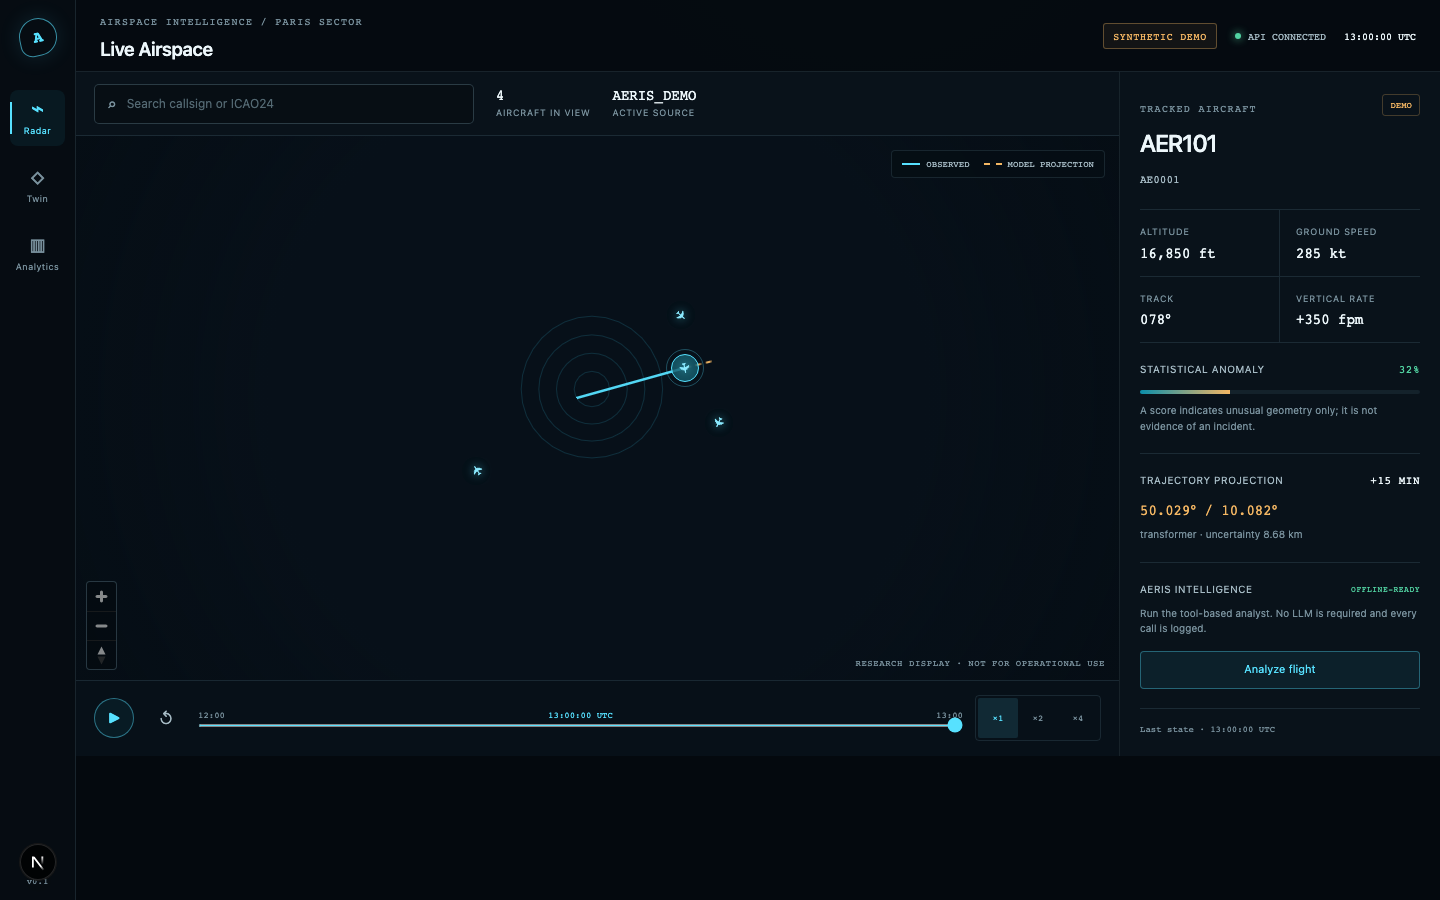
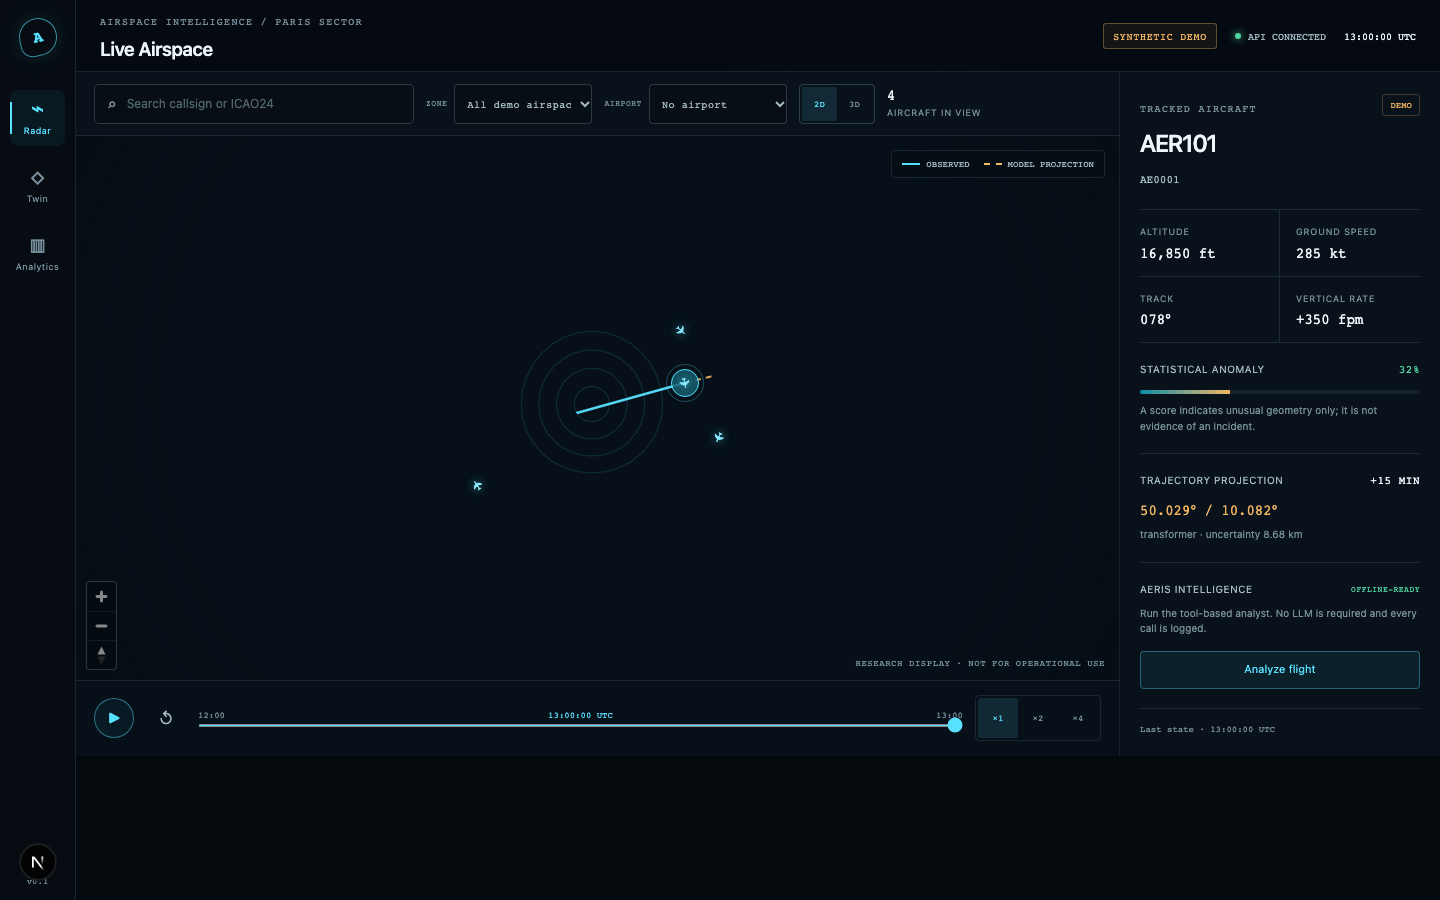
feat: add radar navigation and quality gates

Changed region(s): [[0.2812, 0.0933, 0.5, 0.1556], [0.375, 0.3733, 0.5, 0.4667], [0.5312, 0.0933, 0.5938, 0.1556]]

diff --git a/frontend/app/globals.css b/frontend/app/globals.css
@@ -120,12 +120,17 @@ button:focus-visible, input:focus-visible, select:focus-visible, a:focus-visible
 
 .main-grid { display: grid; min-height: 0; grid-template-columns: minmax(0, 1fr) 320px; }
 .radar-panel { display: grid; min-width: 0; min-height: 0; grid-template-rows: 64px minmax(0, 1fr) 76px; border-right: 1px solid var(--line); }
-.map-toolbar { display: flex; align-items: center; gap: 22px; padding: 10px 18px; border-bottom: 1px solid var(--line); background: var(--surface); }
-.search-box { display: flex; width: min(380px, 45%); align-items: center; gap: 10px; padding: 0 12px; border: 1px solid var(--line-strong); border-radius: 5px; background: #070e14; color: var(--muted); }
+.map-toolbar { display: flex; align-items: center; gap: 12px; overflow-x: auto; padding: 10px 18px; border-bottom: 1px solid var(--line); background: var(--surface); scrollbar-width: thin; }
+.search-box { display: flex; flex: 1 0 220px; max-width: 320px; align-items: center; gap: 10px; padding: 0 12px; border: 1px solid var(--line-strong); border-radius: 5px; background: #070e14; color: var(--muted); }
 .search-box:focus-within { border-color: rgba(87, 225, 255, 0.55); }
 .search-box input { width: 100%; height: 38px; border: 0; outline: 0; background: transparent; color: var(--ink); font-size: 12px; }
 .search-box input::placeholder { color: #536872; }
 .search-box button { border: 0; background: transparent; color: var(--muted); cursor: pointer; }
+.toolbar-select { display: flex; flex: 0 0 auto; align-items: center; gap: 7px; color: var(--muted); font: 8px var(--font-mono), monospace; letter-spacing: 0.07em; text-transform: uppercase; }
+.toolbar-select select { width: 138px; height: 40px; padding: 0 8px; border: 1px solid var(--line-strong); border-radius: 4px; background: #070e14; color: var(--muted-bright); font-size: 10px; }
+.view-toggle { display: flex; flex: 0 0 auto; padding: 2px; border: 1px solid var(--line-strong); border-radius: 4px; }
+.view-toggle button { min-width: 35px; height: 34px; border: 0; border-radius: 2px; background: transparent; color: var(--muted); font: 9px var(--font-mono), monospace; cursor: pointer; }
+.view-toggle button.active { background: rgba(87, 225, 255, 0.12); color: var(--cyan); }
 .traffic-metric { display: flex; flex-direction: column; gap: 3px; min-width: 92px; }
 .traffic-metric strong { color: var(--ink); font: 14px var(--font-mono), monospace; text-transform: uppercase; }
 .traffic-metric span { color: var(--muted); font-size: 9px; letter-spacing: 0.08em; text-transform: uppercase; }
@@ -140,6 +145,9 @@ button:focus-visible, input:focus-visible, select:focus-visible, a:focus-visible
 .aircraft-marker span { display: block; font-size: 18px; line-height: 1; text-shadow: 0 0 10px rgba(87, 225, 255, 0.65); }
 .aircraft-marker:hover, .aircraft-marker.selected { z-index: 3; border-color: var(--cyan); background: rgba(22, 91, 107, 0.82); transform: scale(1.16); }
 .aircraft-marker.selected::after { content: ""; position: absolute; width: 38px; height: 38px; border: 1px solid rgba(87, 225, 255, 0.3); border-radius: 50%; }
+.airport-marker { display: grid; justify-items: center; color: var(--amber); filter: drop-shadow(0 3px 6px #000); }
+.airport-marker strong { padding: 3px 5px; border: 1px solid rgba(243, 182, 99, 0.45); border-radius: 3px; background: rgba(7, 16, 25, 0.92); font: 8px var(--font-mono), monospace; }
+.airport-marker i { width: 8px; height: 8px; margin-top: 3px; border: 2px solid var(--amber); border-radius: 50%; background: #071019; }
 .map-legend { position: absolute; top: 14px; right: 14px; display: flex; gap: 14px; padding: 8px 10px; border: 1px solid var(--line); border-radius: 4px; background: rgba(5, 13, 19, 0.82); color: var(--muted-bright); font: 9px var(--font-mono), monospace; text-transform: uppercase; }
 .map-legend, .non-operational { pointer-events: none; }
 .map-legend span { display: flex; align-items: center; gap: 6px; }
@@ -148,6 +156,7 @@ button:focus-visible, input:focus-visible, select:focus-visible, a:focus-visible
 .predicted-line { border-top: 2px dashed var(--amber); }
 .scenario-line { border-top: 2px dashed var(--red); }
 .scenario-prediction-line { border-top: 2px dotted #c58cff; }
+.airport-reference { position: absolute; top: 14px; left: 14px; padding: 7px 9px; border: 1px solid rgba(243, 182, 99, 0.28); border-radius: 4px; background: rgba(5, 13, 19, 0.82); color: var(--amber); font: 8px var(--font-mono), monospace; letter-spacing: 0.06em; text-transform: uppercase; }
 .non-operational { position: absolute; right: 14px; bottom: 12px; color: #78909c; font: 9px var(--font-mono), monospace; letter-spacing: 0.06em; text-transform: uppercase; }
 .loading-state, .empty-state, .map-fallback { position: absolute; left: 50%; top: 50%; z-index: 4; transform: translate(-50%, -50%); border: 1px solid var(--line-strong); border-radius: 5px; background: rgba(5, 14, 20, 0.92); box-shadow: 0 20px 60px rgba(0, 0, 0, 0.35); }
 .loading-state { display: flex; align-items: center; gap: 10px; padding: 10px 14px; color: var(--muted-bright); font-size: 11px; }
@@ -280,7 +289,9 @@ input[type="range"] { width: 100%; height: 3px; accent-color: var(--cyan); curso
   .topbar-status { gap: 8px; }
   .connection-status, .topbar-status time { display: none; }
   .map-toolbar { gap: 10px; padding: 10px; }
-  .search-box { width: 100%; }
+  .search-box { flex-basis: 210px; }
+  .toolbar-select span { display: none; }
+  .toolbar-select select { width: 126px; }
   .traffic-metric { display: none; }
   .radar-panel { height: 610px; grid-template-rows: 60px minmax(0, 1fr) 92px; }
   .timeline-panel { flex-wrap: wrap; gap: 7px; padding: 8px 10px; }

diff --git a/frontend/app/page.tsx b/frontend/app/page.tsx
@@ -14,6 +14,7 @@ import {
   type IntelligenceReport,
 } from "@/lib/api";
 import { formatUtc } from "@/lib/format";
+import { AIRPORTS, AIRSPACE_ZONES, type AirspaceZone } from "@/lib/reference";
 import type {
   AnomalyResponse,
   FlightListResponse,
@@ -38,6 +39,9 @@ export default function RadarPage() {
   const [reportState, setReportState] = useState<{ key: string; data: IntelligenceReport } | null>(null);
   const [reportBusyKey, setReportBusyKey] = useState<string | null>(null);
   const [search, setSearch] = useState("");
+  const [zone, setZone] = useState<AirspaceZone>("all");
+  const [airportIcao, setAirportIcao] = useState("");
+  const [viewMode, setViewMode] = useState<"2d" | "3d">("2d");
   const [minute, setMinute] = useState(60);
   const [playing, setPlaying] = useState(false);
   const [speed, setSpeed] = useState(1);
@@ -101,11 +105,27 @@ export default function RadarPage() {
 
   const flights = useMemo(() => {
     const query = search.trim().toLowerCase();
-    if (!query) return response?.data ?? [];
-    return (response?.data ?? []).filter((flight) =>
-      flight.icao24.includes(query) || flight.callsign?.toLowerCase().includes(query)
-    );
-  }, [response, search]);
+    const bounds = AIRSPACE_ZONES[zone].bounds;
+    return (response?.data ?? []).filter((flight) => {
+      const matchesQuery = !query
+        || flight.icao24.includes(query)
+        || flight.callsign?.toLowerCase().includes(query);
+      const matchesZone = bounds === null || (
+        flight.longitude >= bounds[0]
+        && flight.latitude >= bounds[1]
+        && flight.longitude <= bounds[2]
+        && flight.latitude <= bounds[3]
+      );
+      return matchesQuery && matchesZone;
+    });
+  }, [response, search, zone]);
+
+  const selectedAirport = AIRPORTS.find((airport) => airport.icao === airportIcao) ?? null;
+
+  const clearFilters = () => {
+    setSearch("");
+    setZone("all");
+  };
 
   const selectedFlight: FlightState | null =
     response?.data.find((flight) => flight.icao24 === selectedIcao24) ?? null;
@@ -161,8 +181,10 @@ export default function RadarPage() {
                 />
                 {search && <button type="button" onClick={() => setSearch("")} aria-label="Clear search">×</button>}
               </label>
+              <label className="toolbar-select"><span>Zone</span><select aria-label="Geographic zone" value={zone} onChange={(event) => { setZone(event.target.value as AirspaceZone); setAirportIcao(""); setSelectedIcao24(null); }}>{Object.entries(AIRSPACE_ZONES).map(([value, item]) => <option key={value} value={value}>{item.label}</option>)}</select></label>
+              <label className="toolbar-select"><span>Airport</span><select aria-label="Airport reference" value={airportIcao} onChange={(event) => setAirportIcao(event.target.value)}><option value="">No airport</option>{AIRPORTS.map((airport) => <option key={airport.icao} value={airport.icao}>{airport.icao} · {airport.name}</option>)}</select></label>
+              <div className="view-toggle" aria-label="Map perspective"><button type="button" className={viewMode === "2d" ? "active" : ""} onClick={() => setViewMode("2d")}>2D</button><button type="button" className={viewMode === "3d" ? "active" : ""} onClick={() => setViewMode("3d")}>3D</button></div>
               <div className="traffic-metric"><strong>{flights.length}</strong><span>aircraft in view</span></div>
-              <div className="traffic-metric"><strong>{response?.meta.source ?? "—"}</strong><span>active source</span></div>
             </div>
 
             <div className="map-stage">
@@ -171,16 +193,19 @@ export default function RadarPage() {
                 selectedIcao24={selectedIcao24}
                 track={analysis?.track ?? null}
                 prediction={analysis?.prediction ?? null}
+                selectedAirport={selectedAirport}
+                viewMode={viewMode}
                 onSelect={setSelectedIcao24}
               />
               {loading && <div className="loading-state" role="status"><i />Updating positions…</div>}
               {!loading && !error && flights.length === 0 && (
-                <div className="empty-state" role="status"><strong>No aircraft in this view</strong><button type="button" onClick={() => setSearch("")}>Clear search</button></div>
+                <div className="empty-state" role="status"><strong>No aircraft in this view</strong><button type="button" onClick={clearFilters}>Clear filters</button></div>
               )}
               <div className="map-legend">
                 <span><i className="observed-line" />Observed</span>
                 <span><i className="predicted-line" />Model projection</span>
               </div>
+              {selectedAirport && <div className="airport-reference">{selectedAirport.icao} · static airport reference</div>}
               <div className="non-operational">Research display · not for operational use</div>
             </div>
 

diff --git a/frontend/components/RadarMap.tsx b/frontend/components/RadarMap.tsx
@@ -6,6 +6,7 @@ import "maplibre-gl/dist/maplibre-gl.css";
 import { useEffect, useRef, useState } from "react";
 
 import type { FlightState, FlightTrackResponse, PredictionPoint, PredictionResponse } from "@/lib/types";
+import type { AirportReference } from "@/lib/reference";
 
 const CENTER: [number, number] = [2.35, 48.86];
 
@@ -54,13 +55,16 @@ interface RadarMapProps {
   prediction: PredictionResponse | null;
   scenario?: FlightState[] | null;
   scenarioPrediction?: PredictionPoint[] | null;
+  selectedAirport?: AirportReference | null;
+  viewMode?: "2d" | "3d";
   onSelect: (icao24: string) => void;
 }
 
-export function RadarMap({ flights, selectedIcao24, track, prediction, scenario, scenarioPrediction, onSelect }: RadarMapProps) {
+export function RadarMap({ flights, selectedIcao24, track, prediction, scenario, scenarioPrediction, selectedAirport, viewMode = "2d", onSelect }: RadarMapProps) {
   const containerRef = useRef<HTMLDivElement>(null);
   const mapRef = useRef<MapLibreMap | null>(null);
   const markersRef = useRef<maplibregl.Marker[]>([]);
+  const airportMarkerRef = useRef<maplibregl.Marker | null>(null);
   const [mapError, setMapError] = useState(false);
   const [styleReady, setStyleReady] = useState(false);
 
@@ -191,6 +195,42 @@ export function RadarMap({ flights, selectedIcao24, track, prediction, scenario,
 
   useEffect(() => {
     const map = mapRef.current;
+    if (!map) return;
+    airportMarkerRef.current?.remove();
+    airportMarkerRef.current = null;
+    if (selectedAirport) {
+      const element = document.createElement("div");
+      element.className = "airport-marker";
+      element.setAttribute("role", "img");
+      element.setAttribute("aria-label", `${selectedAirport.icao} ${selectedAirport.name} static reference`);
+      const code = document.createElement("strong");
+      code.textContent = selectedAirport.icao;
+      const dot = document.createElement("i");
+      element.append(code, dot);
+      airportMarkerRef.current = new maplibregl.Marker({ element, anchor: "bottom" })
+        .setLngLat([selectedAirport.longitude, selectedAirport.latitude])
+        .addTo(map);
+      map.flyTo({
+        center: [selectedAirport.longitude, selectedAirport.latitude],
+        zoom: 8,
+        pitch: viewMode === "3d" ? 50 : 0,
+        duration: 500,
+      });
+    }
+  }, [selectedAirport, viewMode]);
+
+  useEffect(() => {
+    const map = mapRef.current;
+    if (!map || !styleReady) return;
+    map.easeTo({
+      pitch: viewMode === "3d" ? 50 : 0,
+      bearing: viewMode === "3d" ? -18 : 0,
+      duration: 350,
+    });
+  }, [styleReady, viewMode]);
+
+  useEffect(() => {
+    const map = mapRef.current;
     if (!map || !styleReady) return;
     const trackSource = map.getSource("observed-track") as GeoJSONSource | undefined;
     const predictionSource = map.getSource("predicted-track") as GeoJSONSource | undefined;
@@ -229,5 +269,5 @@ export function RadarMap({ flights, selectedIcao24, track, prediction, scenario,
     );
   }
 
-  return <div ref={containerRef} className="radar-map" aria-label="Interactive demonstration airspace map" />;
+  return <div ref={containerRef} className="radar-map" data-view-mode={viewMode} aria-label="Interactive demonstration airspace map" />;
 }

diff --git a/frontend/e2e/radar.spec.ts b/frontend/e2e/radar.spec.ts
@@ -36,6 +36,16 @@ test("radar loads real API data and supports the critical analysis journey", asy
   await page.getByLabel("Replay minute").fill("30");
   await expect(page.getByText("12:30:00 UTC", { exact: true }).first()).toBeVisible();
 
+  await search.fill("");
+  await page.getByLabel("Geographic zone").selectOption("west");
+  await expect(page.locator(".aircraft-marker")).toHaveCount(1);
+  await page.getByLabel("Geographic zone").selectOption("all");
+  await expect(page.locator(".aircraft-marker")).toHaveCount(4);
+  await page.getByLabel("Airport reference").selectOption("LFPG");
+  await expect(page.getByRole("img", { name: /LFPG Paris Charles de Gaulle static reference/ })).toBeVisible();
+  await page.getByRole("button", { name: "3D", exact: true }).click();
+  await expect(page.locator(".radar-map")).toHaveAttribute("data-view-mode", "3d");
+
   const accessibility = await new AxeBuilder({ page }).analyze();
   const blockingViolations = accessibility.violations.filter((item) =>
     item.impact === "critical" || item.impact === "serious"

diff --git a/frontend/lib/reference.ts b/frontend/lib/reference.ts
@@ -1,0 +1,22 @@
+export interface AirportReference {
+  icao: string;
+  name: string;
+  latitude: number;
+  longitude: number;
+  source: "static_reference";
+}
+
+export const AIRPORTS: AirportReference[] = [
+  { icao: "LFPG", name: "Paris Charles de Gaulle", latitude: 49.0097, longitude: 2.5479, source: "static_reference" },
+  { icao: "LFPO", name: "Paris Orly", latitude: 48.7262, longitude: 2.3652, source: "static_reference" },
+  { icao: "LFBO", name: "Toulouse-Blagnac", latitude: 43.6293, longitude: 1.3638, source: "static_reference" },
+];
+
+export const AIRSPACE_ZONES = {
+  all: { label: "All demo airspace", bounds: null },
+  west: { label: "Western sector", bounds: [-6, 44, 2, 52] },
+  central: { label: "Central sector", bounds: [2, 45, 9, 53] },
+  east: { label: "Eastern sector", bounds: [9, 45, 12, 50] },
+} as const;
+
+export type AirspaceZone = keyof typeof AIRSPACE_ZONES;

diff --git a/README.md b/README.md
@@ -14,7 +14,8 @@ Digital Twin and analytics screenshots are available in [`docs/qa`](docs/qa/).
 
 ## What works today
 
-- Interactive MapLibre radar with four reproducible synthetic flights
+- Interactive MapLibre radar with four reproducible synthetic flights, sector
+  filters, static airport focus and 2D/3D perspective controls
 - UTC flight replay with play/pause, speed and timeline controls
 - Observed tracks and trained 5/10/15-minute Transformer predictions, with a
   constant-vector fallback for short histories or unavailable artifacts
@@ -50,6 +51,7 @@ python3.11 -m venv .venv
 source .venv/bin/activate
 python -m pip install -e '.[dev,database,ml]'
 npm --prefix frontend ci
+pre-commit install
 ```
 
 Start the API and web application in separate terminals:
@@ -88,6 +90,7 @@ npm --prefix frontend run typecheck
 npm --prefix frontend test
 npm --prefix frontend run build
 npm --prefix frontend run test:e2e
+pre-commit run --all-files
 ```
 
 The E2E suite starts both services, tests the radar, Digital Twin and analytics

diff --git a/docs/data-sources.md b/docs/data-sources.md
@@ -9,6 +9,11 @@ tests and screenshots reproducible and safe to redistribute.
 Every flight response exposes `source: "synthetic_demo"`. The interface must
 continue to surface provenance when a real provider is added.
 
+The radar also includes three approximate WGS84 airport reference points
+(LFPG, LFPO and LFBO) for map navigation. They are versioned UI reference data,
+explicitly labelled `static_reference`, and must not be used for navigation,
+runway geometry or operational aerodrome information.
+
 ## OpenSky Network
 
 `OpenSkyFlightProvider` implements `/states/all`, including bbox/time filters,

diff --git a/docs/design-contract.md b/docs/design-contract.md
@@ -8,6 +8,8 @@
   provenance, time, altitude and anomaly context before decorative metrics.
 - **Primary action:** select an aircraft on the radar or in search, then inspect
   its observed track and experimental projection.
+- **Navigation aids:** geographic sector filters, explicit static airport focus
+  and 2D/3D perspective controls remain secondary to aircraft analysis.
 - **Tone:** dense, calm, technical and operational, without imitating a certified
   air-traffic-control display.
 - **Memorable detail:** concentric cyan range rings and a continuous timeline make

diff --git a/docs/roadmap.md b/docs/roadmap.md
@@ -3,6 +3,7 @@
 ## Delivered vertical slice
 
 - Responsive live radar and historical replay experience
+- Geographic sector filters, static airport focus and 2D/3D MapLibre perspective
 - Synthetic provider with explicit provenance
 - Flight selection, observed track and 5/10/15-minute prediction baseline
 - Transparent anomaly evidence and deterministic intelligence report
